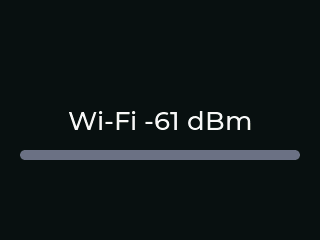
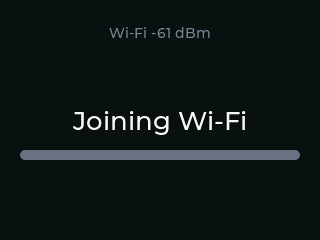
Move the Wi-Fi signal off the detail line, where it hid the phase
Found by looking at the rendered screenshot, which is the only check that
means anything here: `ota-connecting.png` said "Wi-Fi -61 dBm" in 26pt and
NOTHING ELSE. No "CONNECTING", no indication of what the machine was doing.
Every static_assert in the display passed, the suite was 688 green, and the
screen was useless.

The cause is a good rule meeting a bad input. drawOTA() runs the detail
through otaFittedLine(), which PROMOTES a detail into the 26pt headline slot
when it fits - right for a full sentence like "No Wi-Fi - check network
settings", which says more than "FAILED" ever could, and wrong for a short
supplementary reading, which merely replaced the phase word.

So the signal moves to the top line, which was empty during connect and
checking anyway because the release tag is not known yet. That gives that line
one coherent job rather than two: CONTEXT. The signal while connecting - a
marginal link being exactly what is worth seeing before the download commits
to it - then the version pair from the moment noteVersion() supplies the tag,
held through the download and the settled screen.

  OtaOutcome::contextLine()  version pair if known, else the signal
  GlobalState                m_otaVersionLine -> m_otaContextLine, because a
                             field named "version" returning "Wi-Fi -61 dBm"
                             is a trap for the next reader
  render()                   Connecting/Checking go back to their phase words
[…]

Changed region(s): [[0.2188, 0.4667, 0.7812, 0.5833], [0.3438, 0.1167, 0.6562, 0.175]]

diff --git a/test/test_otaoutcome/test_otaoutcome.cpp b/test/test_otaoutcome/test_otaoutcome.cpp
@@ -1148,6 +1148,62 @@ TEST(OtaOutcome, SignalIsVisibleBeforeTheDownloadCommits) {
   EXPECT_FALSE(o.settled());
 }
 
+// --- The context line: one slot, two jobs -----------------------------------
+//
+// The top line of the OTA screen. The signal while connecting and checking,
+// when the release tag is not known yet; the version pair from the moment it
+// is, held through the download.
+//
+// It exists because the signal MUST NOT live in the detail. It did, and the
+// rendered screenshot showed why: drawOTA() runs the detail through
+// otaFittedLine(), which promotes a detail that FITS into the 26pt headline
+// slot. Right for "No Wi-Fi - check network settings"; wrong for a short
+// reading, which replaced "CONNECTING" outright and left the screen saying
+// only "Wi-Fi -61 dBm" with no indication of what the machine was doing.
+// Every static_assert in the display passed the whole time.
+
+TEST(OtaOutcome, ContextLineIsEmptyBeforeAnythingIsKnown) {
+  OtaOutcome o;
+  o.begin(kT0);
+  EXPECT_EQ(std::string(o.contextLine()), "");
+}
+
+TEST(OtaOutcome, ContextLineCarriesTheSignalBeforeTheVersionIsKnown) {
+  OtaOutcome o;
+  o.begin(kT0);
+  o.notePhase(OtaPhase::Connecting, kT0);
+  o.noteSignal(-61);
+  EXPECT_EQ(std::string(o.contextLine()), "Wi-Fi -61 dBm");
+}
+
+TEST(OtaOutcome, TheVersionPairTakesOverTheContextLineOnceKnown) {
+  OtaOutcome o;
+  o.begin(kT0);
+  o.noteCurrentVersion("v1.0.5");
+  o.notePhase(OtaPhase::Connecting, kT0);
+  o.noteSignal(-61);
+  ASSERT_EQ(std::string(o.contextLine()), "Wi-Fi -61 dBm");
+  o.noteVersion("v1.0.6");
+  EXPECT_EQ(std::string(o.contextLine()), "v1.0.5 -> v1.0.6")
+      << "the version pair is the more useful of the two once it exists";
+}
+
+TEST(OtaOutcome, TheHeadlineSurvivesAKnownSignalWhileConnecting) {
+  // THE REGRESSION FENCE for the defect above: the phase word must still be
+  // the headline, and the detail must still be the phase detail, however
+  // short and however well the signal would have fitted.
+  OtaOutcome o;
+  o.begin(kT0);
+  o.notePhase(OtaPhase::Connecting, kT0);
+  o.noteSignal(-61);
+  EXPECT_EQ(std::string(o.headline()), "CONNECTING");
+  EXPECT_EQ(std::string(o.detail()), "Joining Wi-Fi");
+
+  o.notePhase(OtaPhase::Checking, kT0 + 100);
+  EXPECT_EQ(std::string(o.headline()), "CHECKING");
+  EXPECT_EQ(std::string(o.detail()), "Looking for a newer release");
+}
+
 // --- Restarting vs. Now running: the success-wording bug ---------------------
 //
 // OtaResult::Success has always rendered "Now running %s" - correct for a

diff --git a/lib/ota/otaoutcome.cpp b/lib/ota/otaoutcome.cpp
@@ -490,18 +490,16 @@ void OtaOutcome::render(unsigned long nowMs) {
       switch (m_phase) {
         case OtaPhase::Connecting:
           copyInto(m_headline, kHeadlineLen, "CONNECTING");
-          // Wi-Fi signal is visible as soon as it is known, from Connecting
-          // through Checking - "a marginal signal is visible before the
-          // download commits" (owner's wording) - and falls back to the
-          // static phase word before the radio has answered at all.
-          copyInto(m_detail, kDetailLen,
-                   m_signalKnown ? m_signalDetail : "Joining Wi-Fi");
+          // The PHASE WORD, not the signal. The signal is on the context
+          // line (contextLine()) because a short detail gets promoted into
+          // the headline slot by otaFittedLine() and would replace
+          // "CONNECTING" entirely - the rendered screenshot is what caught
+          // that; every static_assert in the display passed regardless.
+          copyInto(m_detail, kDetailLen, "Joining Wi-Fi");
           break;
         case OtaPhase::Checking:
           copyInto(m_headline, kHeadlineLen, "CHECKING");
-          copyInto(m_detail, kDetailLen, m_signalKnown
-                                              ? m_signalDetail
-                                              : "Looking for a newer release");
+          copyInto(m_detail, kDetailLen, "Looking for a newer release");
           break;
         case OtaPhase::Downloading: {
           copyInto(m_headline, kHeadlineLen, "UPDATING");

diff --git a/lib/ota/otaoutcome.h b/lib/ota/otaoutcome.h
@@ -271,6 +271,25 @@ class OtaOutcome {
   // screen alike ("held through the download").
   const char* versionTransition() const { return m_versionTransition; }
 
+  // WHAT THE TOP LINE OF THE OTA SCREEN SHOWS. One line, two jobs, because
+  // they never overlap in time: the Wi-Fi signal while connecting and
+  // checking, when the release tag is not known yet and a marginal link is
+  // the thing worth seeing before the download commits; then the version
+  // pair from the moment noteVersion() supplies the tag, held through the
+  // download and the settled screen.
+  //
+  // THIS EXISTS BECAUSE THE SIGNAL MUST NOT GO IN THE DETAIL. It did, and
+  // the rendered screenshot showed why that is wrong: drawOTA() runs the
+  // detail through otaFittedLine(), which PROMOTES a detail that fits into
+  // the 26pt headline slot - right for a full sentence like "No Wi-Fi -
+  // check network settings", and wrong for a short supplementary reading,
+  // which replaced "CONNECTING" and left the screen saying only
+  // "Wi-Fi -61 dBm" with no indication of what the machine was doing.
+  const char* contextLine() const {
+    return m_versionTransition[0] != 0 ? m_versionTransition
+                                       : m_signalDetail;
+  }
+
   // See "RATE SMOOTHING" above.
   unsigned long bytesPerSec(unsigned long nowMs) const;
 

diff --git a/lib/global_state/globalstate.cpp b/lib/global_state/globalstate.cpp
@@ -219,7 +219,7 @@ bool  GlobalState::hasOTA() { return OTA; };
 void GlobalState::setOTA() {
   m_otaHeadline[0] = '\0';
   m_otaDetail[0] = '\0';
-  m_otaVersionLine[0] = '\0';
+  m_otaContextLine[0] = '\0';
   m_otaStatus = OTA_IDLE;
   OTAbytes = 0;
   OTAlength = 0;
@@ -258,10 +258,10 @@ void GlobalState::setOtaText(const char* headline, const char* detail) {
 const char* GlobalState::getOtaHeadline() { return m_otaHeadline; }
 const char* GlobalState::getOtaDetail() { return m_otaDetail; }
 
-void GlobalState::setOtaVersionLine(const char* line) {
-  copyOtaText(m_otaVersionLine, (int)sizeof(m_otaVersionLine), line);
+void GlobalState::setOtaContextLine(const char* line) {
+  copyOtaText(m_otaContextLine, (int)sizeof(m_otaContextLine), line);
 }
-const char* GlobalState::getOtaVersionLine() { return m_otaVersionLine; }
+const char* GlobalState::getOtaContextLine() { return m_otaContextLine; }
 
 void GlobalState::setOtaProgressMs(unsigned long ms) { m_otaProgressAtMs = ms; }
 unsigned long GlobalState::getOtaProgressMs() { return m_otaProgressAtMs; }

diff --git a/lib/global_state/globalstate.h b/lib/global_state/globalstate.h
@@ -162,7 +162,7 @@ private:
   // OtaOutcome::kVersionTransitionLen (56 = kVersionLen*2 + 8); not
   // #include <otaoutcome.h> for the same reason m_otaHeadline/m_otaDetail
   // above are not either.
-  char m_otaVersionLine[56];
+  char m_otaContextLine[56];
 
   // millis() at the last live progress callback (Update.onProgress), i.e. the
   // last time m_otaHeadline/m_otaDetail's rate+ETA content was actually
@@ -416,8 +416,8 @@ public:
   // The version-transition line ("v1.0.5 -> v1.0.6"), straight off
   // OtaOutcome::versionTransition(). "" until known, same convention as
   // m_otaHeadline/m_otaDetail.
-  void setOtaVersionLine(const char* line);
-  const char* getOtaVersionLine();
+  void setOtaContextLine(const char* line);
+  const char* getOtaContextLine();
 
   // millis() at the last live Update.onProgress() callback - see
   // m_otaProgressAtMs's comment for why drawOTA() needs this rather than

diff --git a/lib/display/ST7789_320_240displaylvgl.cpp b/lib/display/ST7789_320_240displaylvgl.cpp
@@ -2943,7 +2943,7 @@ void Display::drawOTA() {
   // label -- not gated by anything below, because it never goes stale
   // (versionTransition() is held unchanged from the moment it is known
   // through Downloading, Finishing and the settled screen alike).
-  lv_label_set_text(updateVersionLabel, state->getOtaVersionLine());
+  lv_label_set_text(updateVersionLabel, state->getOtaContextLine());
 
   // Update.writeStream() BLOCKS the OTA task, so a stalled transfer stops
   // Update.onProgress() firing entirely -- and with it the throttled

diff --git a/src/ESPCommsManager.cpp b/src/ESPCommsManager.cpp
@@ -326,7 +326,7 @@ void ESPCommsManager::publishOutcome() {
     // colour under the new text, rather than a red UPDATE FAILED colour applied
     // to the text of whatever was happening before it.
     gs->setOtaText(m_outcome.headline(), m_outcome.detail());
-    gs->setOtaVersionLine(m_outcome.versionTransition());
+    gs->setOtaContextLine(m_outcome.contextLine());
 
     switch (m_outcome.result()) {
     case OtaResult::InProgress:

diff --git a/tools/screenshot/src/scenes.cpp b/tools/screenshot/src/scenes.cpp
@@ -564,7 +564,7 @@ void publishOutcome(Rig& r, const OtaOutcome& o, unsigned long nowMs = 0) {
   // way, and anything a scene wants in the byte counters has to be set after.
   r.gs->setOTA();
   r.gs->setOtaText(o.headline(), o.detail());
-  r.gs->setOtaVersionLine(o.versionTransition());
+  r.gs->setOtaContextLine(o.contextLine());
   r.gs->setOtaProgressMs(nowMs);
   switch (o.result()) {
   case OtaResult::InProgress:
